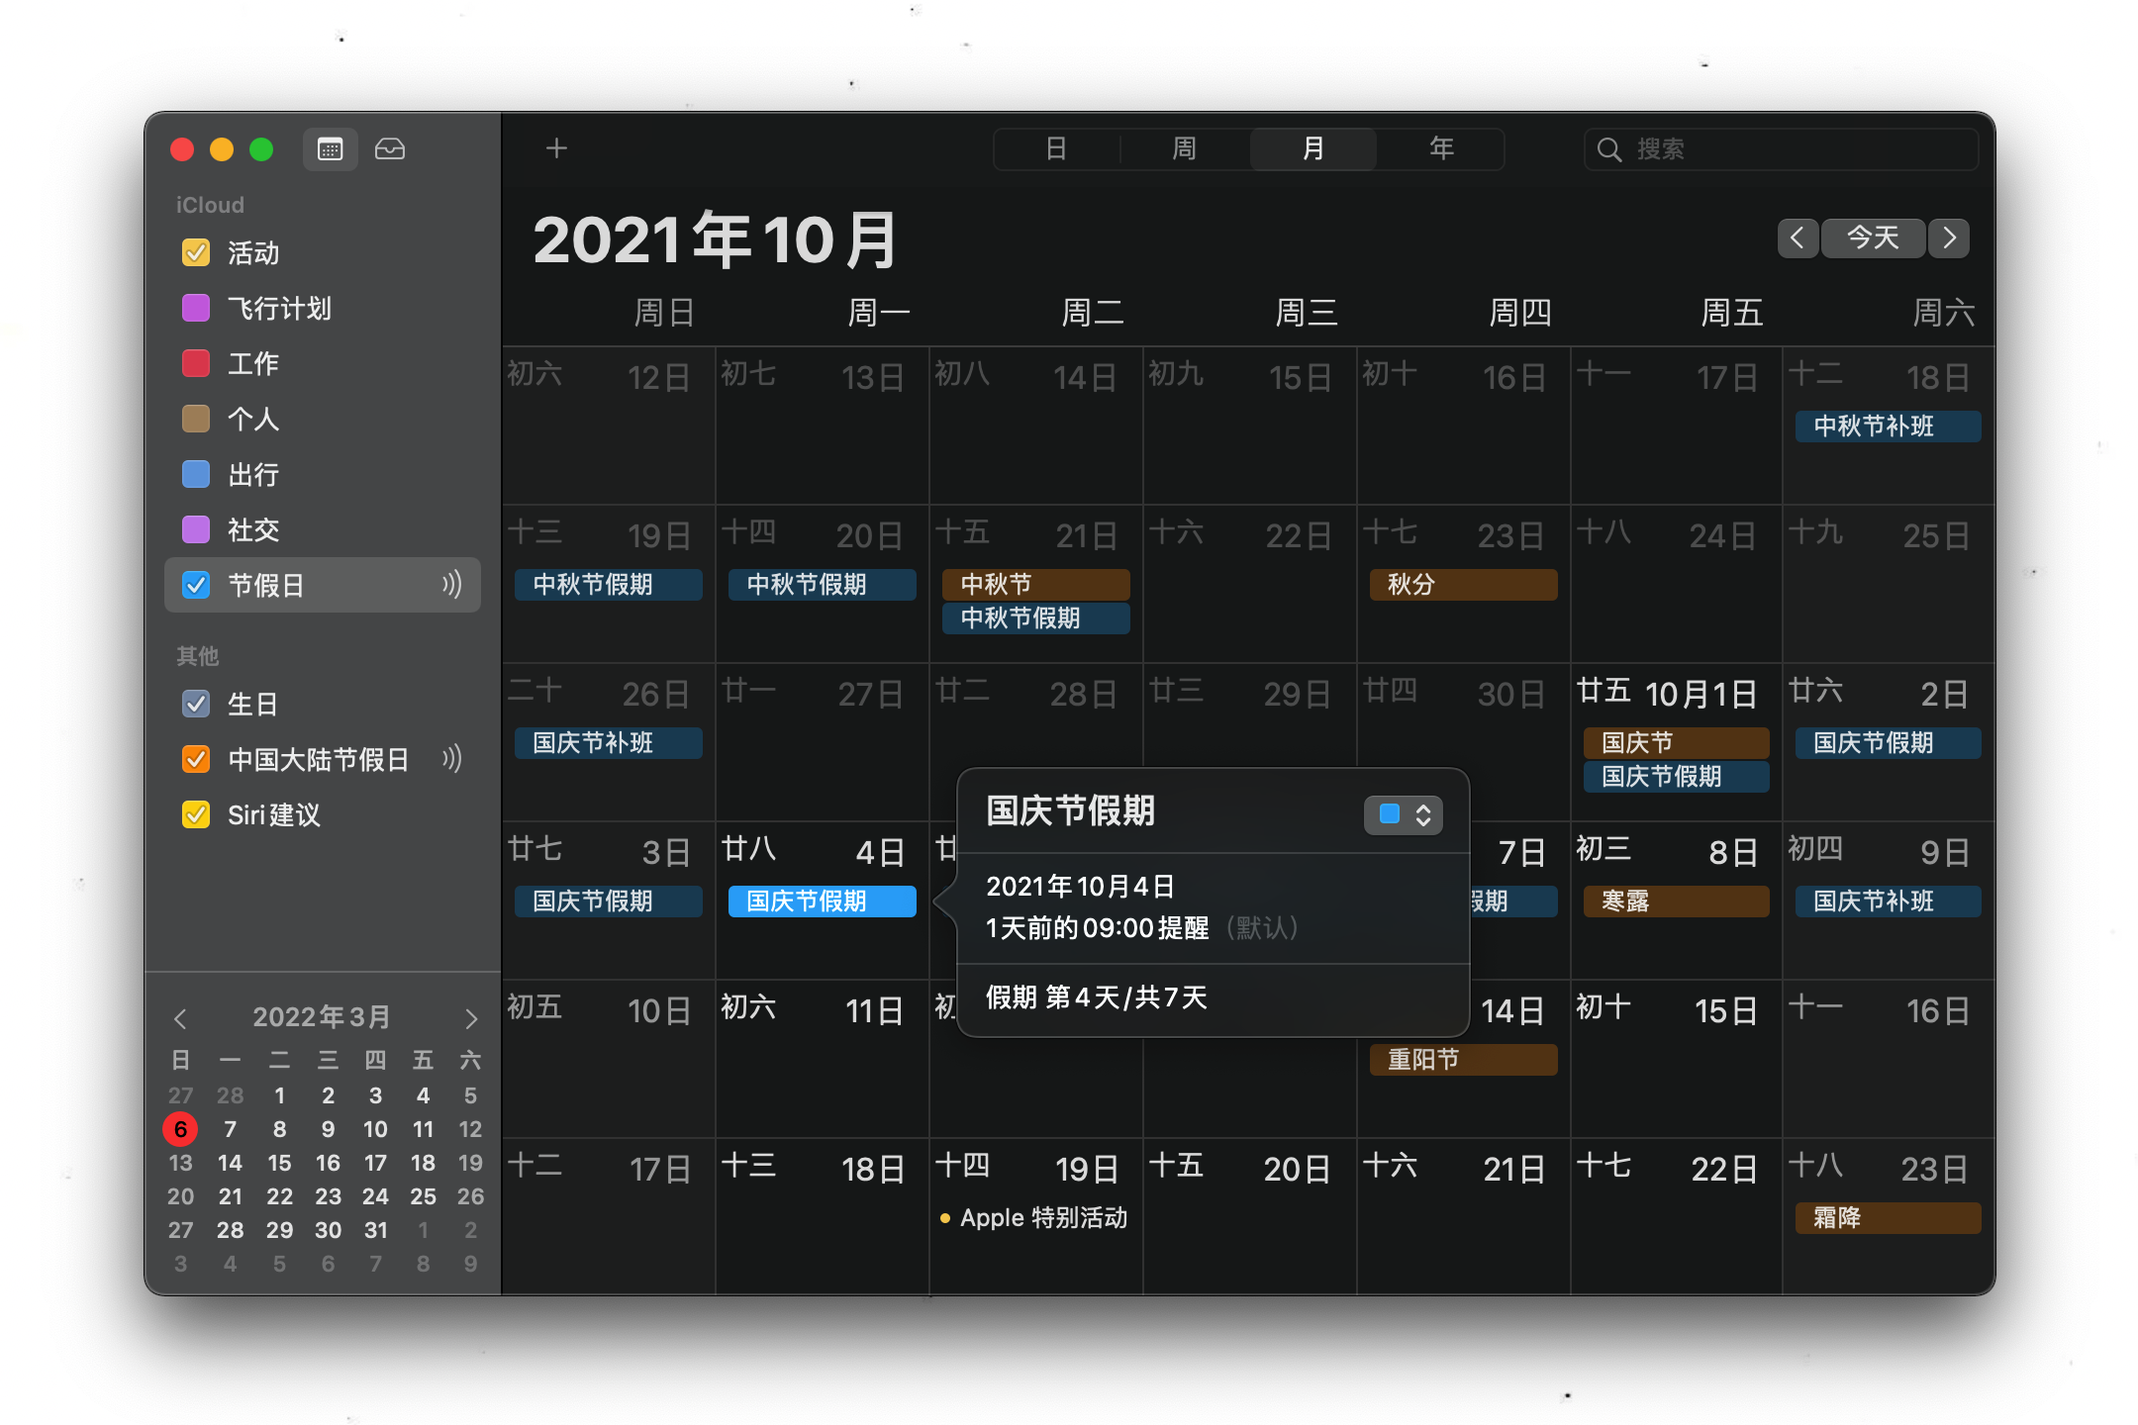
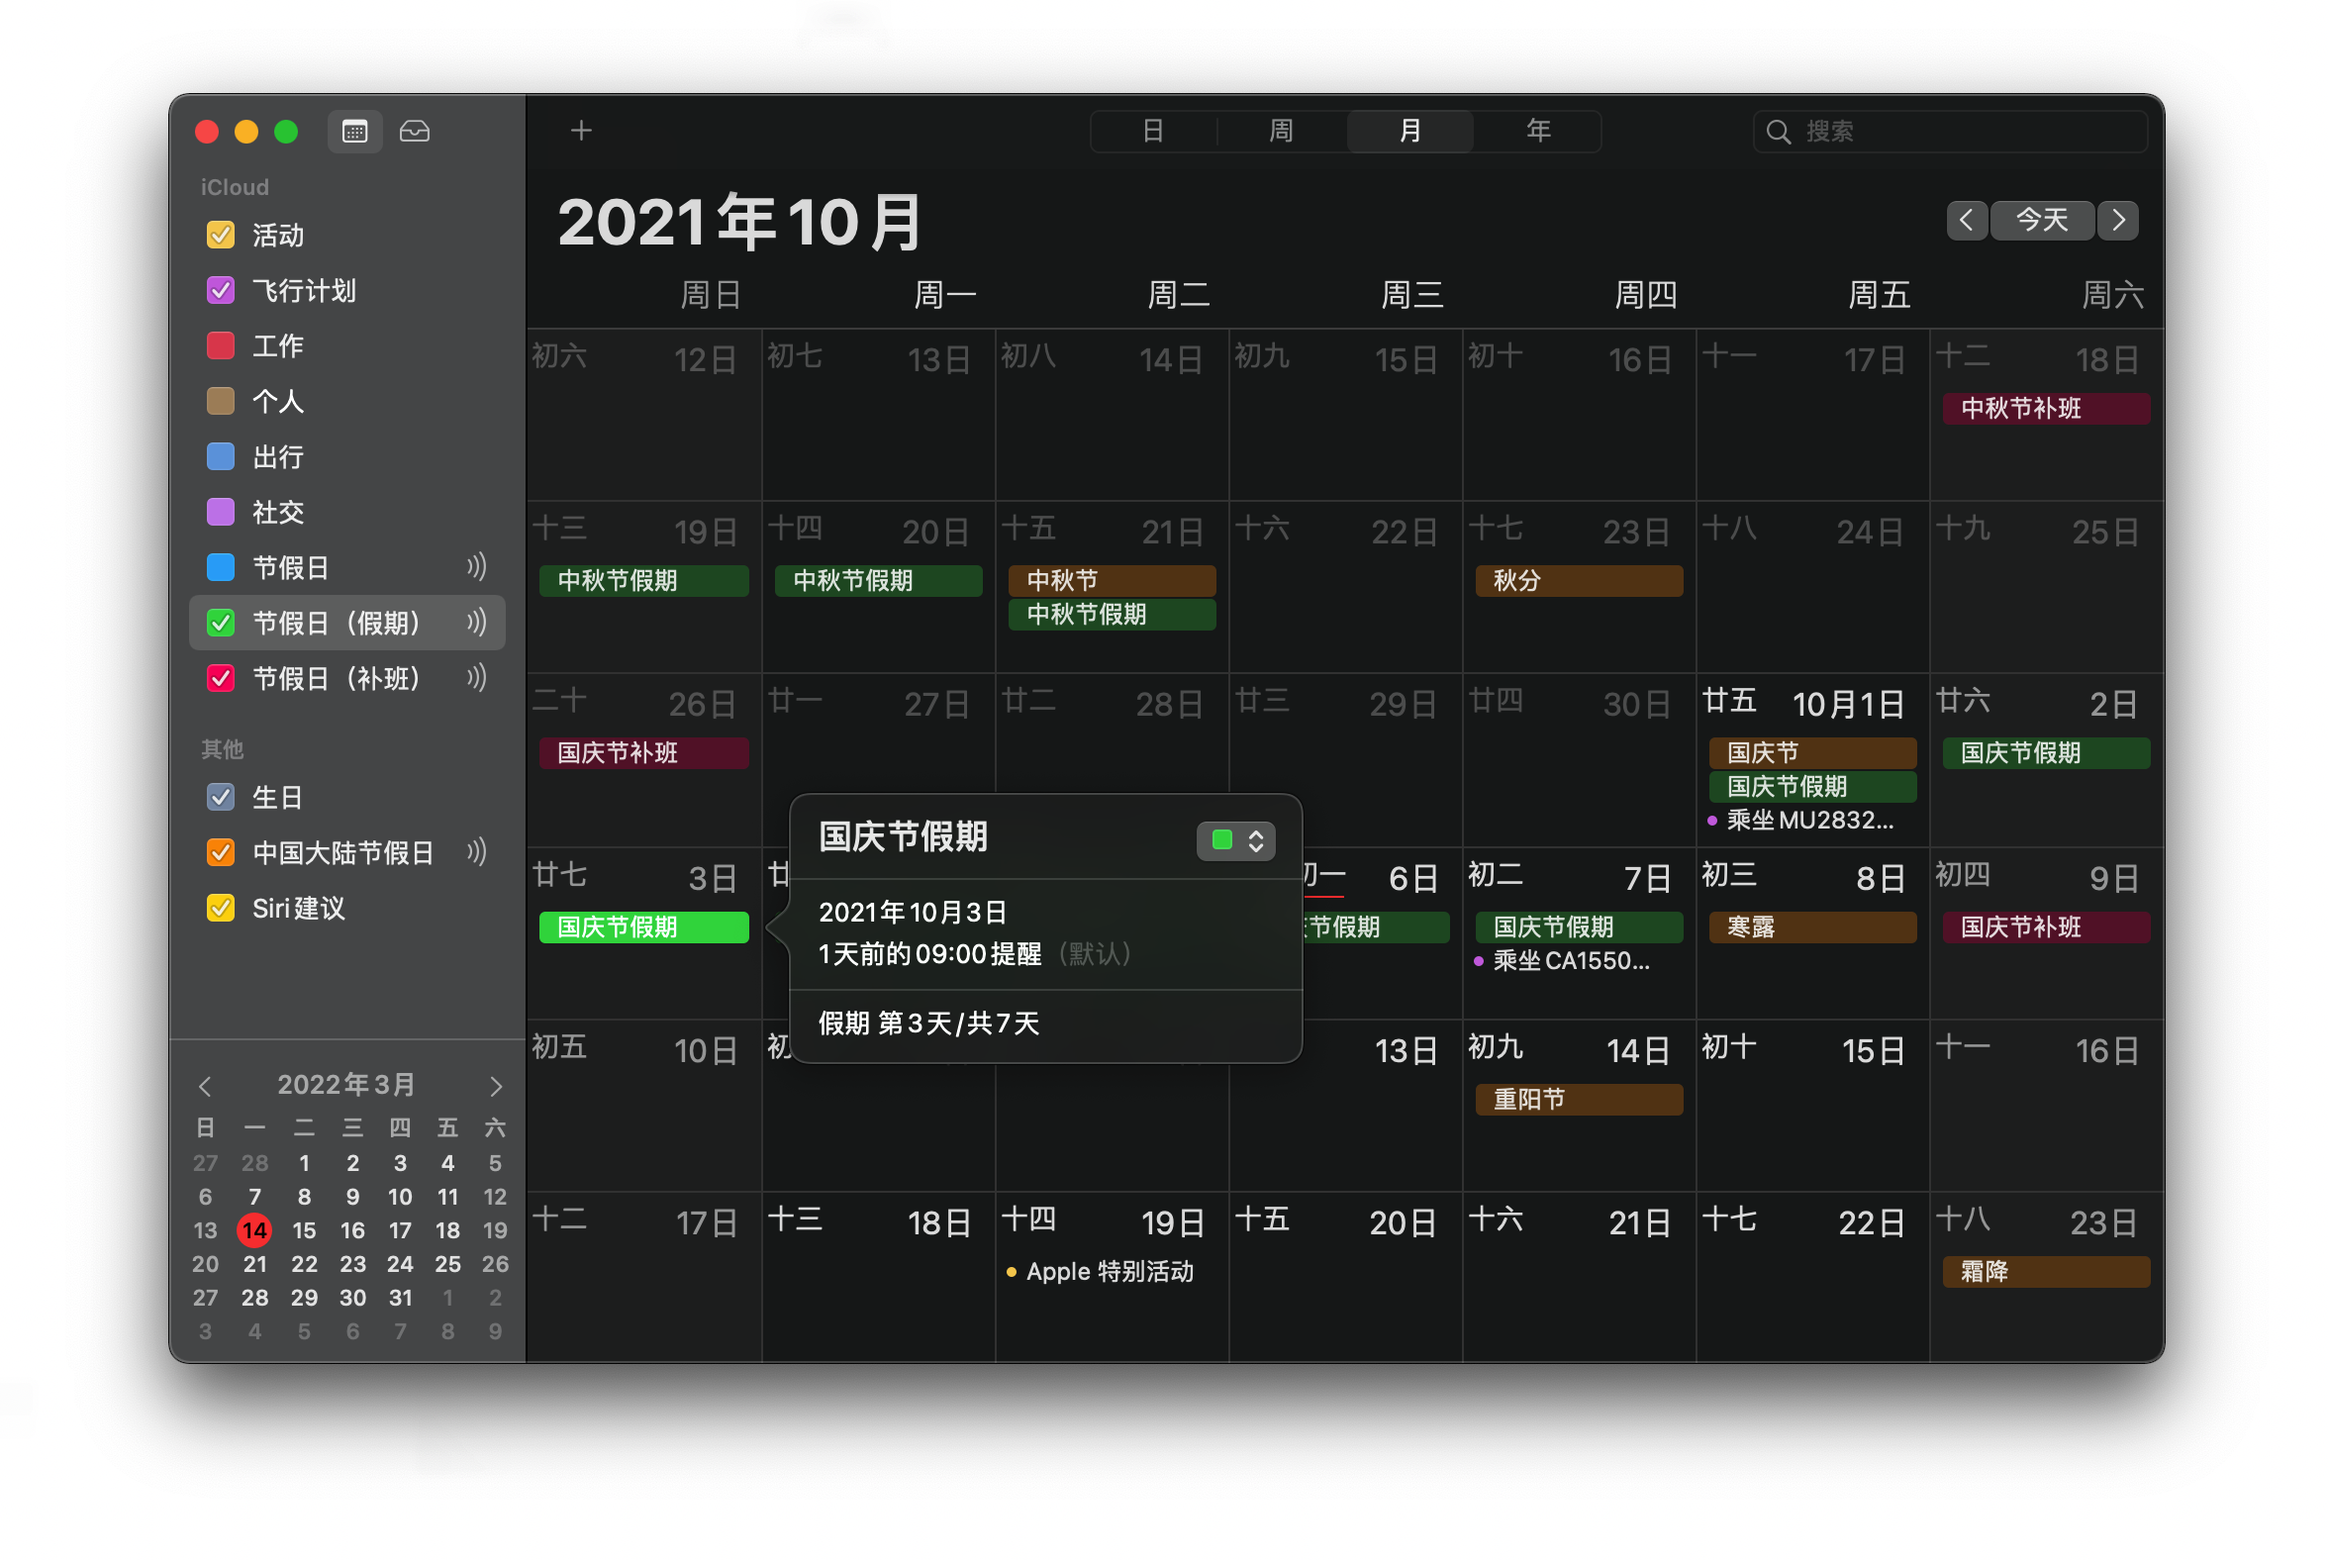
update readme

diff --git a/README.md b/README.md
@@ -13,15 +13,21 @@ subscription link of public holidays in mainland China
 日历 - 添加日历 - 添加订阅日历 - 输入链接  
 「 [https://ics.github.rank.technology](https://ics.github.rank.technology) 」
 
-![iOS](./docs/readme/ios.jpeg)
+![iOS](./docs/readme/ios.png)
 
-### MacOs
+### macOs
 
 日历 - 文件 - 新建日历订阅 - 输入链接  
 「 [https://ics.github.rank.technology](https://ics.github.rank.technology) 」
 
 ![MacOs](./docs/readme/macos.png)
 
-### 订阅成功
+## 为补班添加不同的颜色
 
-![subscribed](./docs/readme/overview.png)
+分别订阅
+- 假期：「 [https://ics.github.rank.technology/rest.ics](https://ics.github.rank.technology/rest.ics) 」
+- 补班：「 [https://ics.github.rank.technology/work.ics](https://ics.github.rank.technology/work.ics) 」
+
+给他们分配不同的颜色吧～
+
+![overview](./docs/readme/overview.png)
